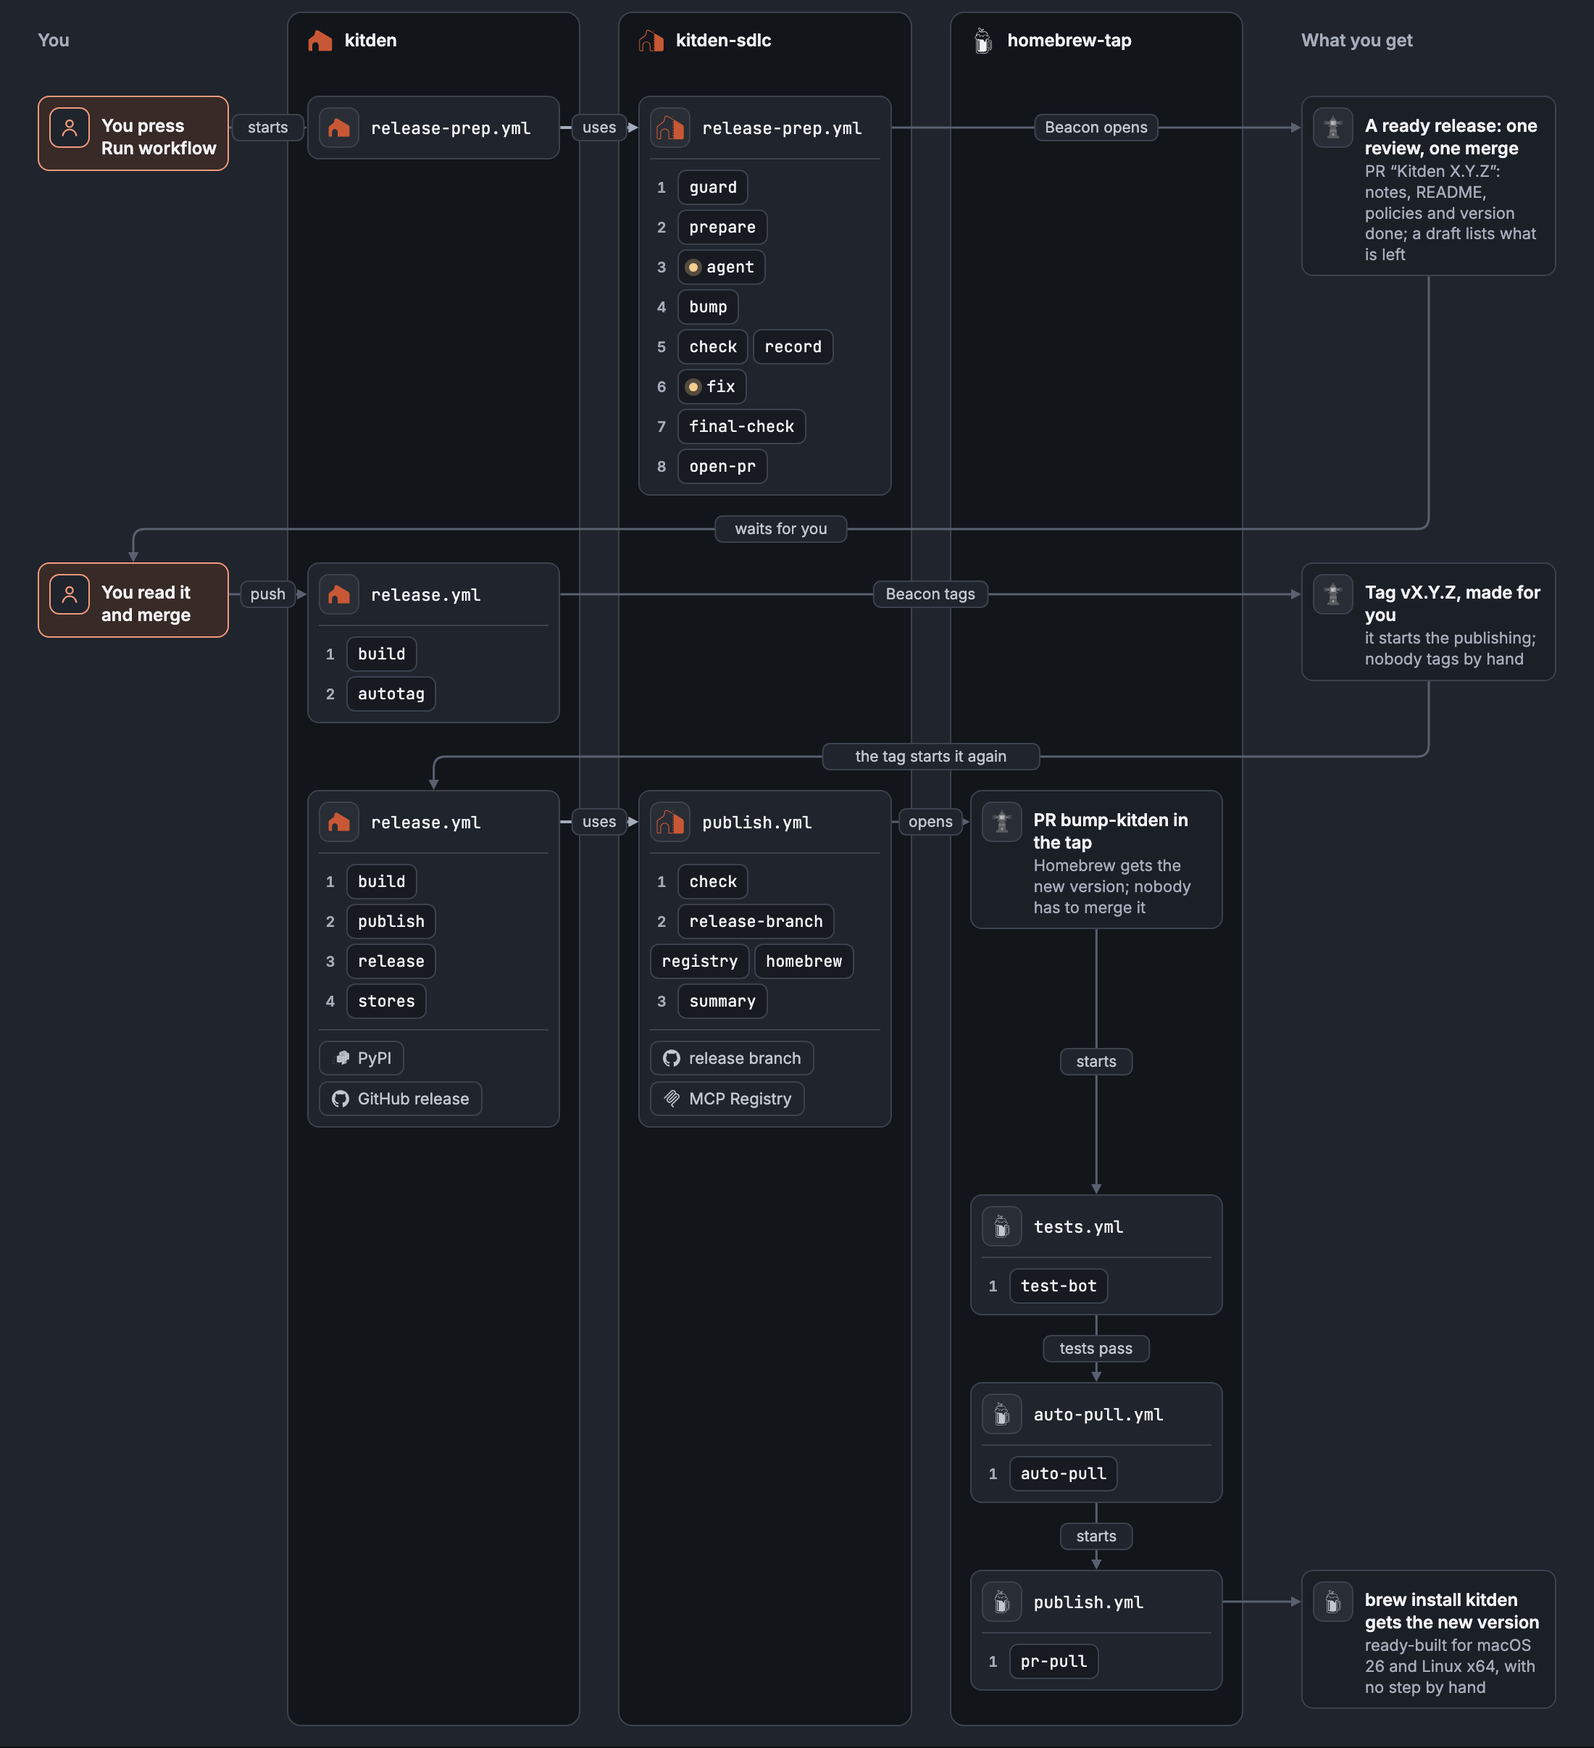
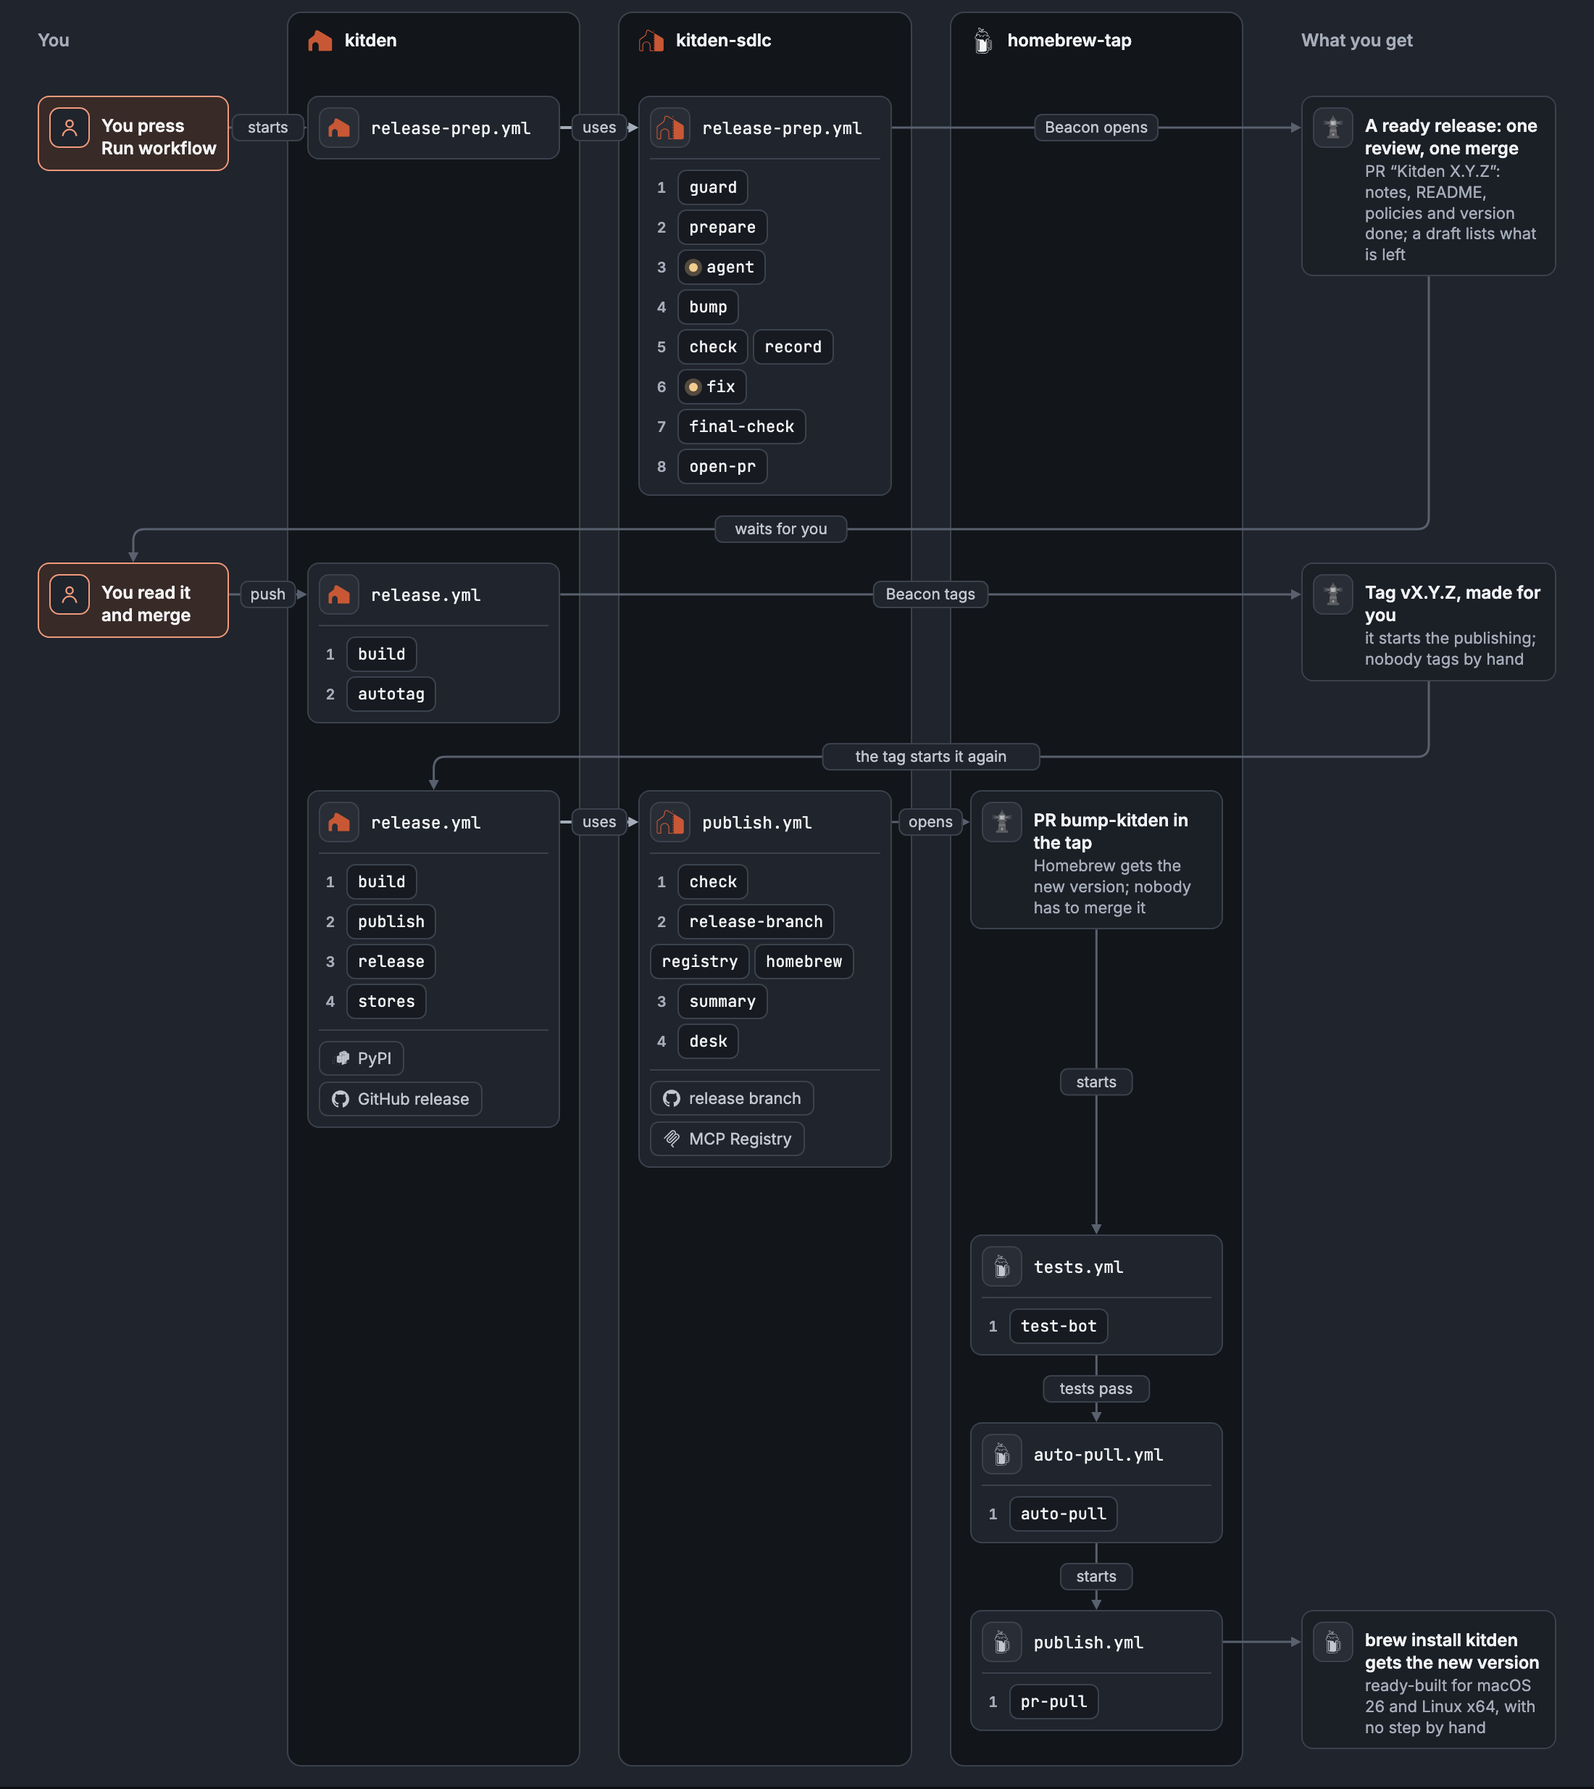
Put the CPU and memory run on the map
use.yml is a new workflow on the map and in the Every day story; the desk reads it.
The README pictures are rebuilt, taller to fit, and their text names use.yml.

diff --git a/docs/map/index.html b/docs/map/index.html
@@ -395,6 +395,7 @@ table.hold tr:last-child td{border-bottom:0}
  "k-release-watch": {"name": "Release watch", "what": "every day, with no model, opens, updates or closes two issues: \"Time for a release?\" while merged changes for users wait and the last release is a week old or one of them has the `bug` label, and \"Release vX.Y.Z is not everywhere\" while a store is behind.", "why": "so that merged work does not sit unreleased, and a release that reached only some stores is noticed."},
  "k-latest-deps": {"name": "Newest dependencies", "what": "once a day, runs the Python tests on the newest versions of the dependencies.", "why": "people who install Kitden get those versions, not the ones in uv.lock, so a break shows here first."},
  "k-nightly": {"name": "Nightly tests", "what": "every night, runs the tests where a pull request does not: on four systems and two Pythons, and against the newest Claude Code and Codex, and in a real browser.", "why": "the maintainer has one Mac, and nobody presses every button of the page before a release. A break on Linux on ARM, an Intel Mac, Python 3.13, a new client version or in the page must show here first, not at a user."},
+ "k-use": {"name": "CPU and memory", "what": "every night, measures the CPU and memory of the newest release and of main, the page and the gateway, in turn on one runner, and keeps the numbers on the `use-numbers` branch. By hand, it can measure a list of old releases instead, then this commit last; the charts are redrawn from that run alone, so list every release.", "why": "a slow leak or a busy loop would ship unseen, because no test measures CPU or memory and no number was kept from one version to the next."},
  "k-scenes": {"name": "README scenes", "what": "when a pull request changes Kitden's code or the README recorder (its scripts and tests/conftest.py), records every README scene once and fails when a scene fails.", "why": "the README pictures are recorded again at each release. When a change to these files breaks a scene, its pull request shows it, not release day."},
  "s-review": {"name": "Agent review", "what": "Claude and GPT-6 Luna each read a pull request, and one \"Agent review\" comment with their findings is posted.", "why": "a second look at a pull request before the owner merges, up to a daily limit. It only comments; it never approves or blocks."},
  "s-check": {"name": "Check the workflows", "what": "checks the calling repository's workflow files with zizmor, actionlint and the rule checker (7 of the 11 rules in RULES.md).", "why": "a workflow that runs an agent is where a mistake leaks a secret. This shows an unsafe change these tools can find as a red check before the merge."},
@@ -520,6 +521,22 @@ const WF = [
      'Install Firefox or WebKit; Chrome is already on the runner',
      'Check Playwright loads|without Playwright the tests would skip and look green',
      'Run the page’s browser tests in that engine|a page bug in one engine shows within a day']}
+  ]},
+ {id:'k-use', r:'k', file:'use.yml', kind:'own',
+  trigger:'Every night at 03:23 UTC, or by hand with a list of releases',
+  readBy:['s-desk'], stages:[['use'],['use-store']],
+  jobs:[
+   {n:'use', about:'CPU and memory of the page and the gateway: newest release against main', tags:['Ubuntu','read-only token'],
+    when:'always; by hand: the releases listed instead, the page only',
+    steps:['Install the newest release and a wheel of main in fresh venvs|the same way, at the same moment',
+     'Measure each one’s page 5 times after a warm-up, in turn|A B, then B A: same runner, same script',
+     'At night, the gateway too: `kitden mcp` with three test echo servers|never for old releases; its rounds come after the page’s',
+     'Keep the numbers as a file of the run|before any limit is checked',
+     'Warn when main uses clearly more|a warning keeps the job green; a broken limit turns it red']},
+   {n:'use-store', about:'Adds the numbers to the `use-numbers` branch', tags:['can push'],
+    when:'after `use`, unless cancelled; only on `main`',
+    steps:['Add the files and rebuild the tables|by hand with releases: the desk page’s chart file too',
+     'Push them to the `use-numbers` branch|only main’s own report code runs here; it holds no secret']}
   ]},
  {id:'k-scenes', r:'k', file:'scenes.yml', kind:'own',
   trigger:'A pull request that changes `src/kitden`, the recorder or `tests/conftest.py`',
@@ -661,7 +678,7 @@ const WF = [
   ]},
  {id:'s-desk', r:'s', file:'desk.yml', kind:'own',
   trigger:'Every day at 06:41 UTC, after each release, or by hand',
-  reads:['k-nightly','k-latest-deps'], stages:[['measure'],['post']],
+  reads:['k-nightly','k-latest-deps','k-use'], stages:[['measure'],['post']],
   jobs:[
    {n:'measure', about:'Works out from facts, with no model, what is healthy and what waits', tags:['no model'], when:'always',
     steps:['Read the facts: checks on `main`, nightly runs, issues, reviews|and whether this map still matches the workflow files',
@@ -810,6 +827,7 @@ const STORIES = {
   day:{note:'Times are UTC. Nothing here needs you until an issue, a pull request or a red run shows up.',
     rows:[
       [{id:'c0', kind:'clock', t:'02:37'}, {wf:'k-nightly'}, {id:'d0', kind:'thing', ic:'github', t:'Breaks found before your users find them', sub:'4 systems, newest Claude Code and Codex, three browser engines; red: a ci-failure issue'}],
+      [{id:'c6', kind:'clock', t:'03:23'}, {wf:'k-use'}, {id:'d6', kind:'thing', ic:'github', t:'More CPU or memory, seen the next day', sub:'the page and the gateway, main against the newest release; red: a ci-failure issue'}],
       [{id:'c1', kind:'clock', t:'05:17'}, {wf:'s-watch', stages:[['fetch'],['judge'],['post']]}, {id:'d1', kind:'thing', ic:'lantern', t:'Warned when a client change breaks Kitden', sub:'a sure break gets an issue, the rest a weekly summary; confirm it or close it'}],
       [{id:'c2', kind:'clock', t:'05:17'}, {wf:'k-latest-deps'}, {id:'d2', kind:'thing', ic:'github', t:'A broken new dependency, caught first', sub:'before people who install Kitden meet it; red: a ci-failure issue'}],
       [{id:'c3', kind:'clock', t:'06:23'}, {wf:'k-release-watch'}, {wf:'s-release-watch'}, {id:'d3', kind:'thing', ic:'lantern', t:'Merged work does not sit unreleased', sub:'“Time for a release?” when changes wait; “not everywhere” when a store lags', go:'rel'}],
@@ -817,8 +835,9 @@ const STORIES = {
       [{id:'c5', kind:'clock', t:'13:10'}, {wf:'t-autobump'}, {id:'d5', kind:'thing', ic:'kettle', t:'Homebrew’s formula stays up to date', sub:'if the formula lags Kitden, a bump PR that publishes itself', go:'rel'}]
     ],
     edges:[['c0','k-nightly','','h'],['k-nightly','d0','','h'],['c1','s-watch','','h'],['s-watch','d1','Lantern opens','h'],['c2','k-latest-deps','','h'],['k-latest-deps','d2','','h'],
+      ['c6','k-use','','h'],['k-use','d6','','h'],
       ['c3','k-release-watch','','h'],['k-release-watch','s-release-watch','uses','h'],['s-release-watch','d3','Lantern opens','h'],
-      ['d0','s-desk','the desk reads it','t'],['d2','s-desk','the desk reads it','r'],
+      ['d0','s-desk','the desk reads it','t'],['d2','s-desk','the desk reads it','r'],['d6','s-desk','the desk reads it','t'],
       ['c4','s-desk','','h'],['s-desk','d4','the page reads it','h'],['c5','t-autobump','','h'],['t-autobump','d5','opens','h']]}
 };
 const flow = $('flow');
@@ -1008,7 +1027,7 @@ const USED = {
   'Claude Sonnet 5.5':['s-review','s-watch','s-release-prep'], 'GPT-6 Luna':['s-review'],
   'ruff':['k-release','s-checks'], 'pyright':['k-release'], 'pytest':['k-release','k-latest-deps','k-nightly','s-checks','s-release-prep'], 'Node':['k-release','k-nightly'],
   'zizmor':['k-release','s-check','s-checks'], 'actionlint':['s-check','s-checks'], 'pip-audit':['k-release'], 'macOS Keychain':['k-nightly'], 'GNOME Keyring':['k-release','k-nightly'],
-  'GitHub Actions':'All 22 workflows', 'uv':'Every workflow in kitden and kitden-sdlc', 'Python':'Every workflow in kitden and kitden-sdlc',
+  'GitHub Actions':'All 23 workflows', 'uv':'Every workflow in kitden and kitden-sdlc', 'Python':'Every workflow in kitden and kitden-sdlc',
   'PyPI':['k-release','s-publish','t-autobump'], 'GitHub Releases':['k-release'], 'MCP Registry':['s-publish'],
   'Homebrew':['s-publish','t-autobump','t-tests','t-auto-pull','t-publish'], 'Playwright':['k-scenes','k-nightly','s-release-prep'], 'ffmpeg':['k-scenes','s-release-prep'],
   'Harden-Runner':['s-review','s-watch','s-release-prep','s-list-check'], 'Langfuse':['s-watch'],

diff --git a/tests/test_map_text.py b/tests/test_map_text.py
@@ -174,10 +174,19 @@ def test_the_nightly_run_is_on_the_map_with_its_jobs_and_links():
     assert map_ids(HTML)["k-nightly"] == ("k", "nightly.yml")
     assert map_jobs(HTML)["k-nightly"] == ["systems", "clients", "browser", "engines"]
     links = map_links(HTML)
-    assert links["s-desk"]["reads"] == ["k-nightly", "k-latest-deps"]
+    assert links["s-desk"]["reads"] == ["k-nightly", "k-latest-deps", "k-use"]
     assert links["k-nightly"]["readBy"] == links["k-latest-deps"]["readBy"] == ["s-desk"]
     assert links["s-review"] == {"calledBy": ["k-agents-review"]}
-    assert "All 22 workflows" in HTML
+    assert "All 23 workflows" in HTML
+
+
+def test_the_cpu_and_memory_run_is_on_the_map_and_the_desk_reads_it():
+    assert map_ids(HTML)["k-use"] == ("k", "use.yml")
+    assert map_jobs(HTML)["k-use"] == ["use", "use-store"]
+    links = map_links(HTML)
+    assert links["s-desk"]["reads"] == ["k-nightly", "k-latest-deps", "k-use"]
+    assert links["k-use"]["readBy"] == ["s-desk"]
+    assert "All 23 workflows" in HTML
 
 
 def test_every_link_names_a_workflow_on_the_map_and_has_its_other_end():
@@ -192,7 +201,7 @@ def test_every_link_names_a_workflow_on_the_map_and_has_its_other_end():
 
 
 def test_a_reads_link_is_read_and_the_page_shows_it():
-    assert map_links(HTML)["s-desk"] == {"reads": ["k-nightly", "k-latest-deps"]}
+    assert map_links(HTML)["s-desk"] == {"reads": ["k-nightly", "k-latest-deps", "k-use"]}
     for kind, label in (("reads", "Reads"), ("readBy", "Read by")):
         shown = (f"(w.{kind} ? '<div class=\"fact\"><span class=\"cap\">{label}</span>"
                  f"<span>' + w.{kind}.map(ref)")
@@ -211,24 +220,26 @@ def test_the_every_day_story_draws_the_nightly_run_and_who_reads_it():
     assert "t:'Breaks found before your users find them'" in day and "three browser engines" in day
     assert "red: a ci-failure issue" in day and "emails" not in day
     assert "['c0','k-nightly','','h'],['k-nightly','d0','','h']" in day
-    assert day.count("'s-desk','the desk reads it'") == 2
+    assert day.count("'s-desk','the desk reads it'") == 3
     assert "['d0','s-desk','the desk reads it','t']" in day
     assert "['d2','s-desk','the desk reads it','r']" in day
+    assert "{id:'c6', kind:'clock', t:'03:23'}, {wf:'k-use'}" in day
+    assert "['c6','k-use','','h'],['k-use','d6','','h']" in day
 
 
 def test_the_every_day_clock_runs_in_time_order():
     """The wires into the desk go down the gap before the last column, so no row moves."""
     rows = HTML.split("day:{")[1].split("rows:[")[1].split("\n    ],")[0]
     times = re.findall(r"kind:'clock', t:'(\d\d:\d\d)'", rows)
-    assert times == sorted(times) and times[0] == "02:37" and len(times) == 6
+    assert times == sorted(times) and times[0] == "02:37" and len(times) == 7
 
 
-def test_both_wires_the_desk_reads_run_from_a_result_card_into_the_desk():
+def test_the_three_wires_the_desk_reads_run_from_a_result_card_into_the_desk():
     day = HTML.split("day:{")[1].split("\n};")[0]
     things = set(re.findall(r"\{id:'(\w+)', kind:'thing'", day))
     edges = re.findall(r"\['(\w+)','([\w-]+)','the desk reads it','(\w)'\]", day)
-    assert sorted(edges) == [("d0", "s-desk", "t"), ("d2", "s-desk", "r")]
-    assert {"d0", "d2"} <= things
+    assert sorted(edges) == [("d0", "s-desk", "t"), ("d2", "s-desk", "r"), ("d6", "s-desk", "t")]
+    assert {"d0", "d2", "d6"} <= things
     assert "if (shape === 'r')" in HTML and "if (shape === 't')" in HTML
 
 
@@ -252,7 +263,7 @@ def test_every_step_is_one_short_line_with_at_most_one_short_why():
     wf = HTML.split("\nconst WF = [\n")[1].split("\n];")[0]
     hosts = re.search(r"\nconst HOSTS = '([^'\\]*)';", HTML).group(1)
     lists = re.findall(r"steps:\[((?:HOSTS|'[^'\\]*'|\s|,)*)\]", wf)
-    assert len(lists) == sum(len(jobs) for jobs in map_jobs(HTML).values()) == 51
+    assert len(lists) == sum(len(jobs) for jobs in map_jobs(HTML).values()) == 53
     steps = [hosts if s == "HOSTS" else s[1:-1] for found in lists
              for s in re.findall(r"HOSTS|'[^']*'", found)]
     assert len(steps) > 100
@@ -264,7 +275,7 @@ def test_every_step_is_one_short_line_with_at_most_one_short_why():
         assert 0 < len(about.split()) <= 14, about
     stories = HTML.split("const STORIES = {")[1].split("\n};")[0]
     cards = re.findall(r"kind:'thing'[^}]*?t:'([^'\\]*)'(?:, sub:'([^'\\]*)')?", stories)
-    assert len(cards) == 15
+    assert len(cards) == 16
     for title, line in cards:  # a result card: at most 8 words, then at most 16
         assert len(title.split()) <= 8 and len(line.split()) <= 16, (title, line)
     assert "'<span class=\"why\">'" in HTML
@@ -285,4 +296,4 @@ def test_the_tools_view_shows_what_the_nightly_tests_use():
     for name in ("Claude Code", "Codex", "pytest", "Node", "Playwright"):
         assert re.search(rf"'{name}':\[[^\]]*'k-nightly'", used), name
     assert "'Cursor':['s-watch']" in used
-    assert "'GitHub Actions':'All 22 workflows'" in used and len(map_ids(HTML)) == 22
+    assert "'GitHub Actions':'All 23 workflows'" in used and len(map_ids(HTML)) == 23

diff --git a/README.md b/README.md
@@ -41,8 +41,8 @@ next thing starts; a dot on a job means a model runs in it.
 
 ### Every day
 
-<img src="docs/images/map-every-day-light.png#gh-light-mode-only" width="820" alt="By the clock, in UTC. 02:37: nightly.yml in Kitden runs the tests on four systems and two Pythons, against the newest Claude Code and Codex, and in Chromium, Chrome, Firefox and WebKit. 05:17: watch.yml reads what Claude Code, Codex and Cursor changed, and Lantern opens an issue in Kitden. 05:17: latest-deps.yml tests Kitden on the newest dependencies. 06:23: release-watch.yml in Kitden uses release-watch.yml in kitden-sdlc, and Lantern opens Time for a release. 06:41: desk.yml reads the results of nightly.yml and latest-deps.yml, opens a ci-failure issue for each red part, and updates the desk page. 13:10: autobump.yml in the tap opens a pull request for a new version.">
-<img src="docs/images/map-every-day-dark.png#gh-dark-mode-only" width="820" alt="By the clock, in UTC. 02:37: nightly.yml in Kitden runs the tests on four systems and two Pythons, against the newest Claude Code and Codex, and in Chromium, Chrome, Firefox and WebKit. 05:17: watch.yml reads what Claude Code, Codex and Cursor changed, and Lantern opens an issue in Kitden. 05:17: latest-deps.yml tests Kitden on the newest dependencies. 06:23: release-watch.yml in Kitden uses release-watch.yml in kitden-sdlc, and Lantern opens Time for a release. 06:41: desk.yml reads the results of nightly.yml and latest-deps.yml, opens a ci-failure issue for each red part, and updates the desk page. 13:10: autobump.yml in the tap opens a pull request for a new version.">
+<img src="docs/images/map-every-day-light.png#gh-light-mode-only" width="820" alt="By the clock, in UTC. 02:37: nightly.yml in Kitden runs the tests on four systems and two Pythons, against the newest Claude Code and Codex, and in Chromium, Chrome, Firefox and WebKit. 03:23: use.yml measures the CPU and memory of the newest release and of main, the page and the gateway. 05:17: watch.yml reads what Claude Code, Codex and Cursor changed, and Lantern opens an issue in Kitden. 05:17: latest-deps.yml tests Kitden on the newest dependencies. 06:23: release-watch.yml in Kitden uses release-watch.yml in kitden-sdlc, and Lantern opens Time for a release. 06:41: desk.yml reads the results of nightly.yml, latest-deps.yml and use.yml, opens a ci-failure issue for each red part, and updates the desk page. 13:10: autobump.yml in the tap opens a pull request for a new version.">
+<img src="docs/images/map-every-day-dark.png#gh-dark-mode-only" width="820" alt="By the clock, in UTC. 02:37: nightly.yml in Kitden runs the tests on four systems and two Pythons, against the newest Claude Code and Codex, and in Chromium, Chrome, Firefox and WebKit. 03:23: use.yml measures the CPU and memory of the newest release and of main, the page and the gateway. 05:17: watch.yml reads what Claude Code, Codex and Cursor changed, and Lantern opens an issue in Kitden. 05:17: latest-deps.yml tests Kitden on the newest dependencies. 06:23: release-watch.yml in Kitden uses release-watch.yml in kitden-sdlc, and Lantern opens Time for a release. 06:41: desk.yml reads the results of nightly.yml, latest-deps.yml and use.yml, opens a ci-failure issue for each red part, and updates the desk page. 13:10: autobump.yml in the tap opens a pull request for a new version.">
 
 ## The bots
 
